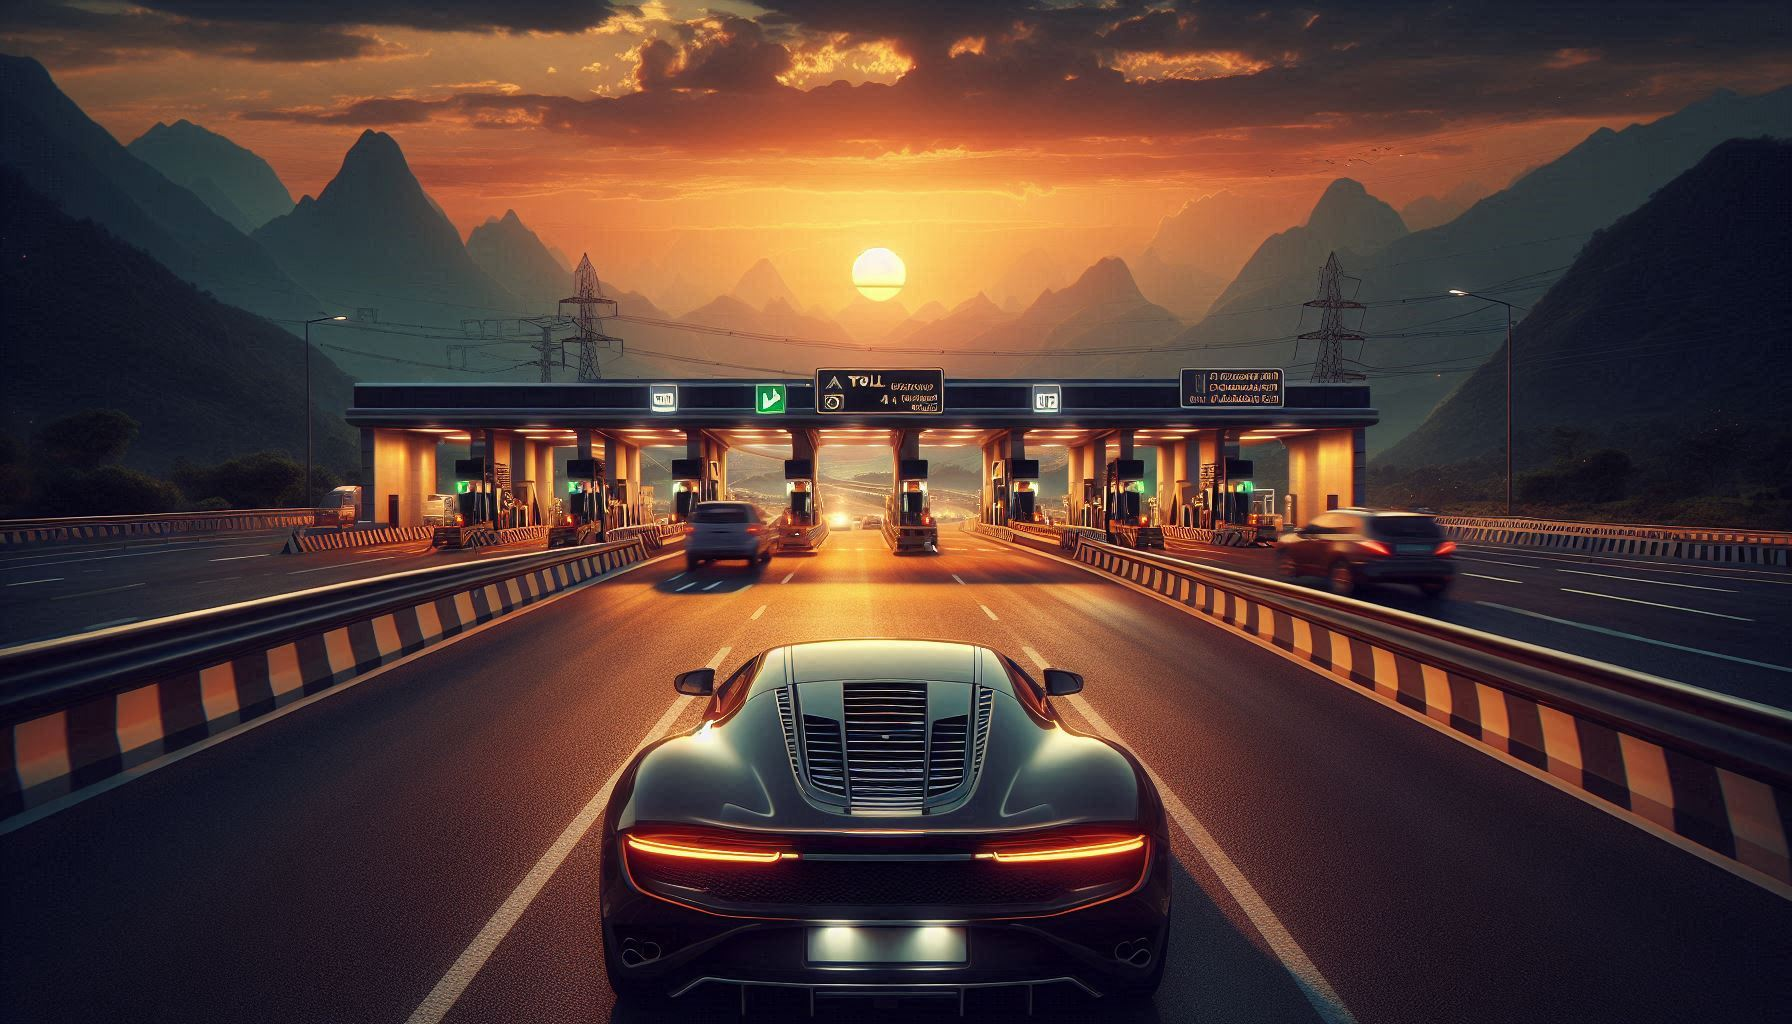
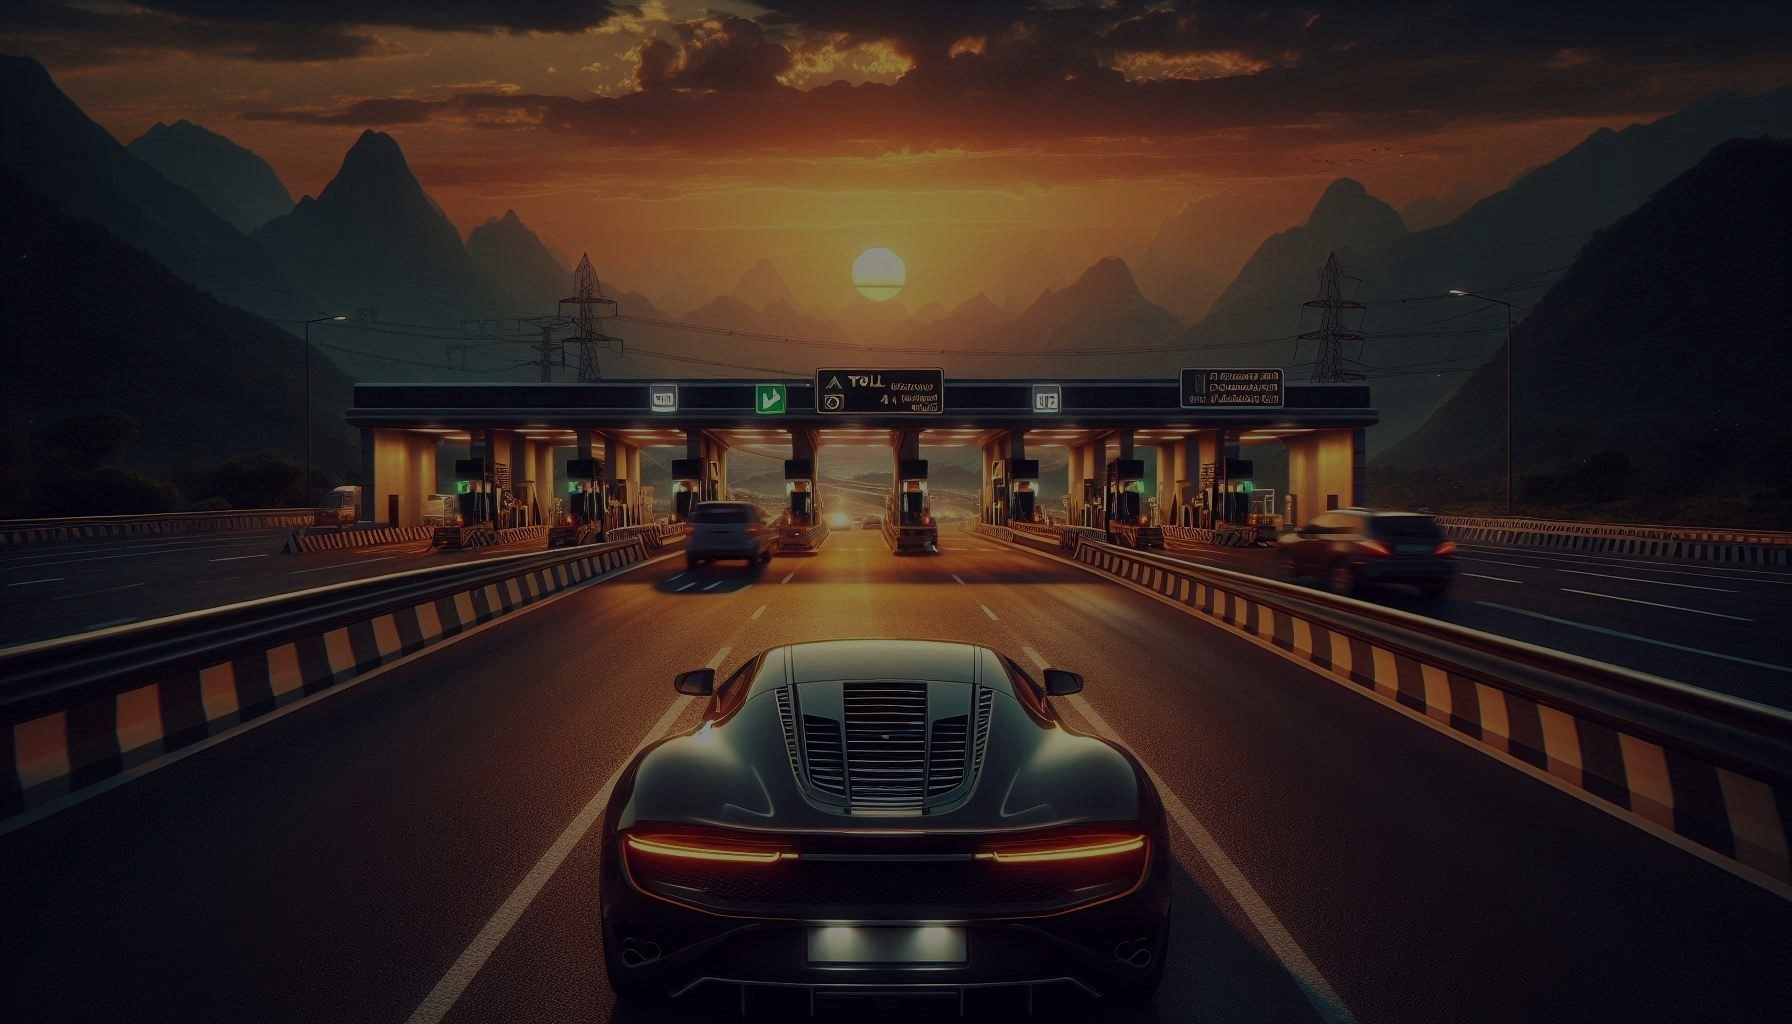
The Bg is Dimmed to 60%

diff --git a/ERPS/src/Components/Contents/Contents.css b/ERPS/src/Components/Contents/Contents.css
@@ -5,7 +5,7 @@
   background-size: cover;
   background-position: center;
   background-repeat: no-repeat;
-  filter: brightness(50%);
+  /* filter: brightness(50%); */
 }
 
 .two {
